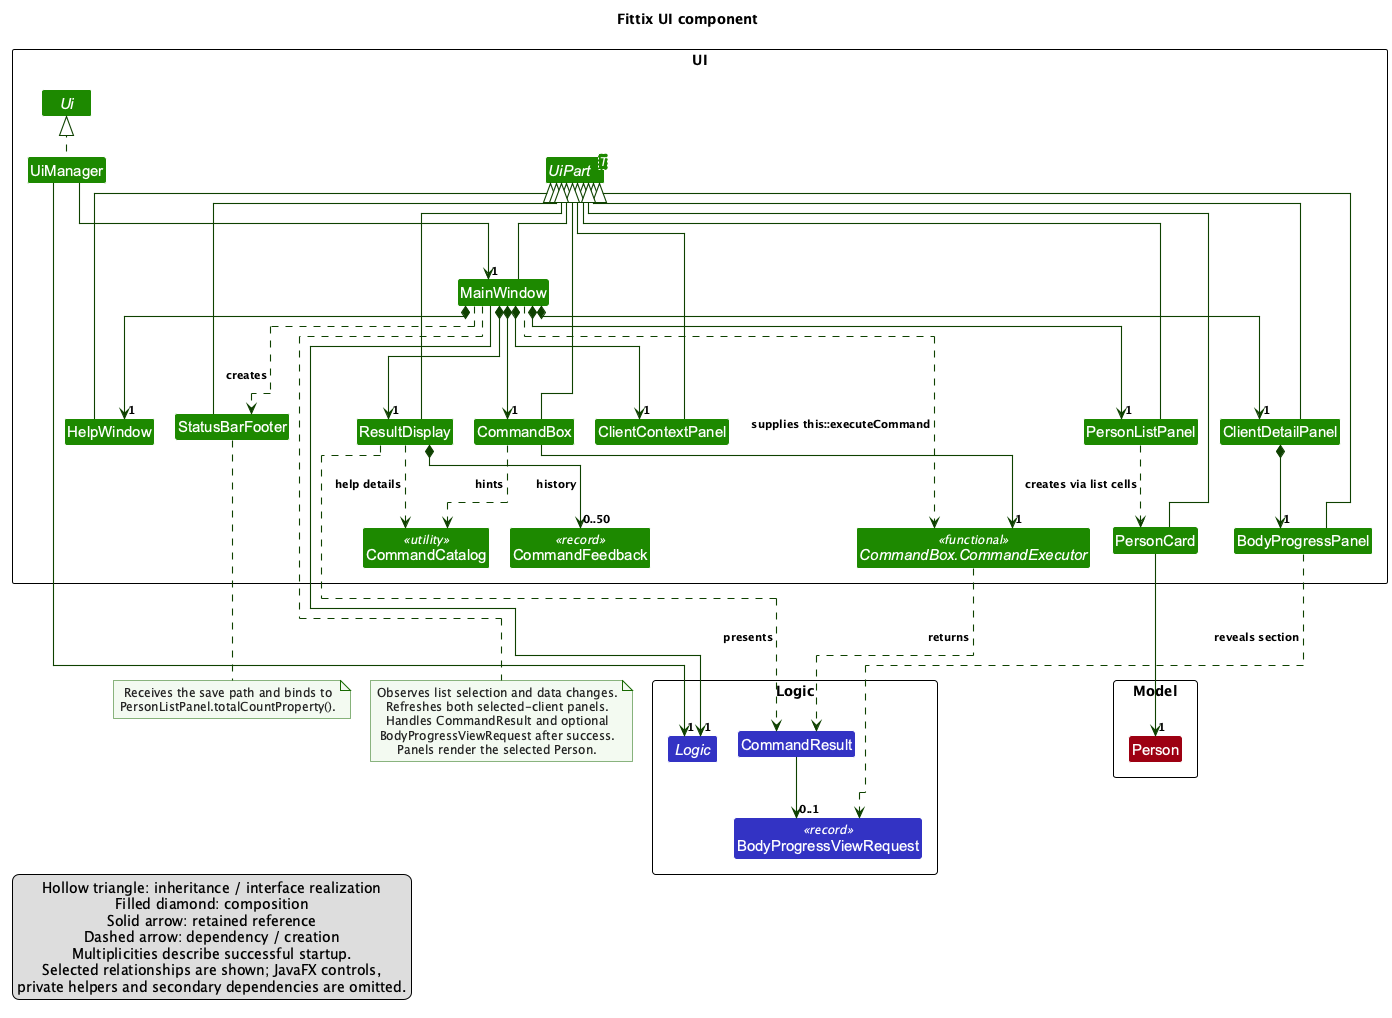
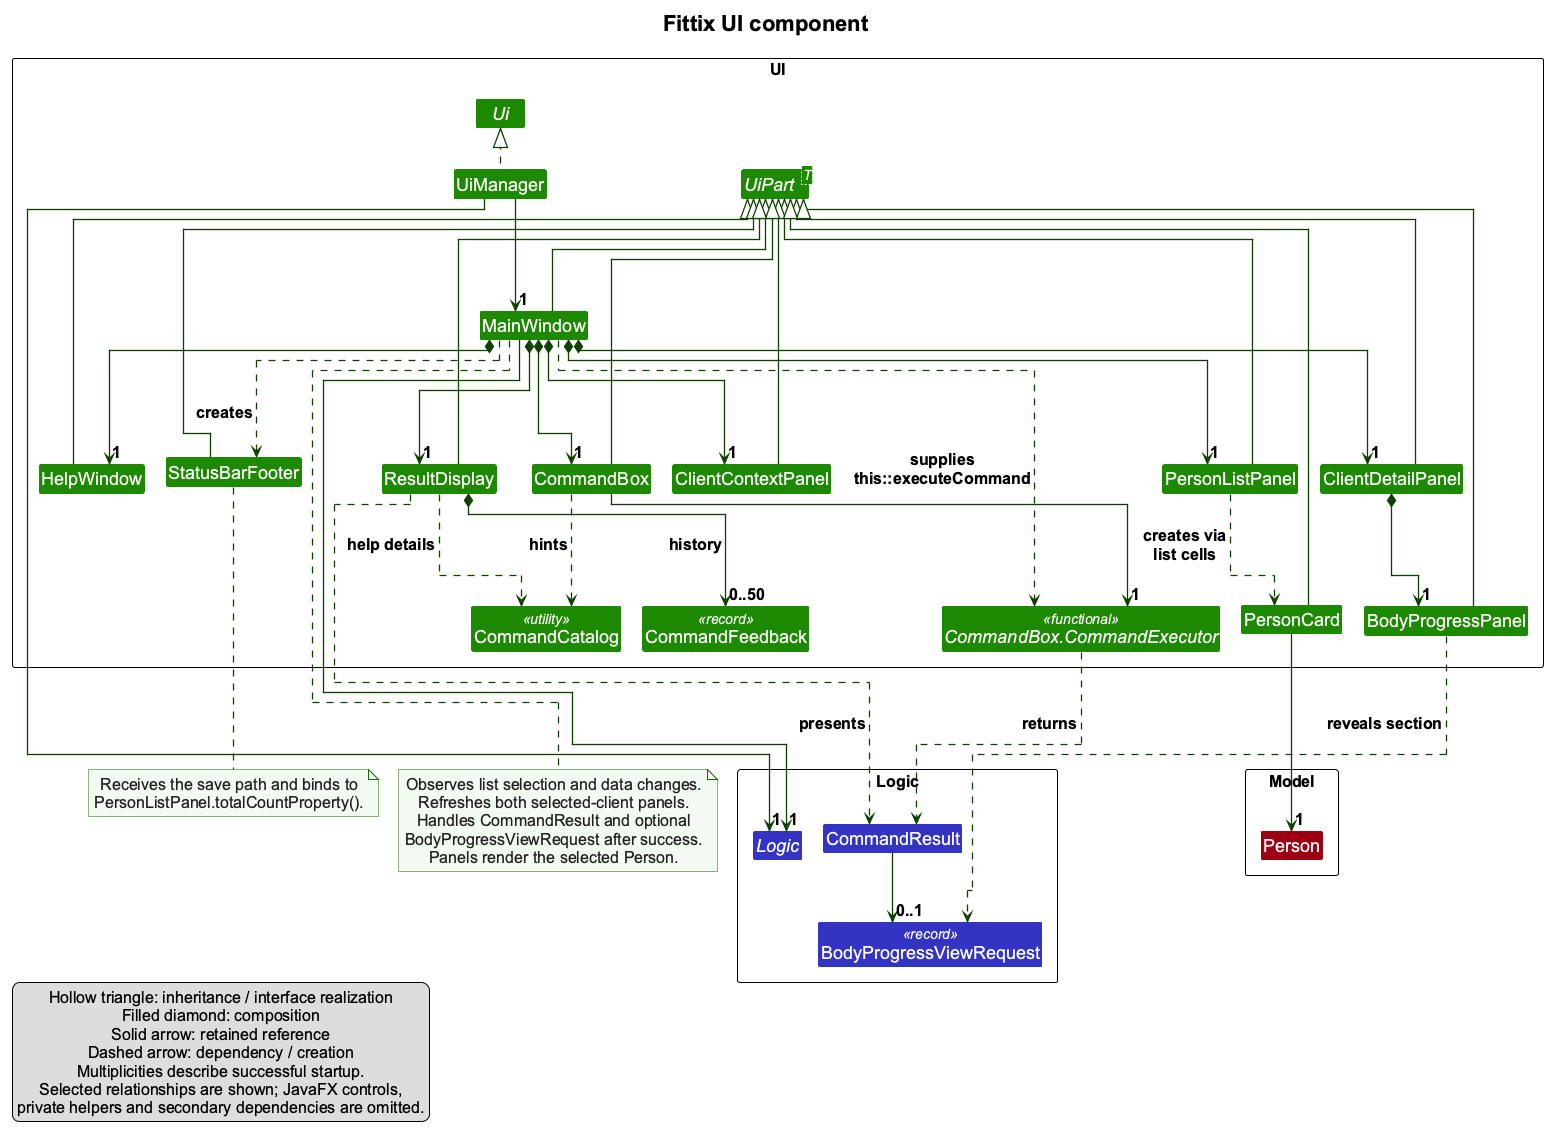
Improve UI class diagram readability in Developer Guide

diff --git a/docs/_sass/minima/custom-styles.scss b/docs/_sass/minima/custom-styles.scss
@@ -4,6 +4,26 @@ h2, h3, h4, h5, h6 {
   color: #e46c0a;
 }
 
+// Preserve readable diagram labels instead of shrinking to the text column.
+.diagram-scroll {
+  max-width: 100%;
+  overflow-x: auto;
+  margin-bottom: $spacing-unit / 2;
+  border: 1px solid $brand-color-light;
+  border-radius: 4px;
+
+  &:focus-visible {
+    outline: 2px solid $link-base-color;
+    outline-offset: 2px;
+  }
+
+  img {
+    display: block;
+    width: auto;
+    max-width: none;
+  }
+}
+
 // Bootstrap style alerts
 .alert {
   position: relative;
@@ -31,4 +51,3 @@ h2, h3, h4, h5, h6 {
     @include alert-variant(color-level($value, $alert-bg-level), color-level($value, $alert-border-level), color-level($value, $alert-color-level));
   }
 }
-

diff --git a/docs/DeveloperGuide.md b/docs/DeveloperGuide.md
@@ -73,7 +73,13 @@ The sections below give more details of each component.
 
 The **API** of this component is specified in [`Ui.java`](https://github.com/AY2627S1-CS2103T-T14-1/tp/blob/master/src/main/java/seedu/address/ui/Ui.java). `UiManager` implements this interface, loads the bundled fonts, and creates the `MainWindow` when the application starts.
 
-![Structure of the UI Component](images/UiClassDiagram.png)
+*Scroll horizontally to explore the diagram, or click it to open the full-size image.*
+
+<div class="diagram-scroll" role="region" aria-label="UI class diagram (scroll horizontally to view the full diagram)" tabindex="0">
+  <a href="images/UiClassDiagram.png">
+    <img src="images/UiClassDiagram.png" alt="Structure of the UI component, showing UI controllers and their relationships with Logic and Model" />
+  </a>
+</div>
 
 The workspace has three columns: `PersonListPanel` displays clients and manages selection, `ClientDetailPanel` shows the selected client's profile and workout plan, and `ClientContextPanel` shows their diet, restrictions, appointments, and workout history. `ClientDetailPanel` owns a `BodyProgressPanel` for baseline measurements, progress history, and the latest comparison. These visible controllers, together with `MainWindow`, `CommandBox`, `ResultDisplay`, `HelpWindow`, `PersonCard`, and `StatusBarFooter`, inherit from the abstract `UiPart<T>` class, which loads their FXML and exposes their root node.
 
